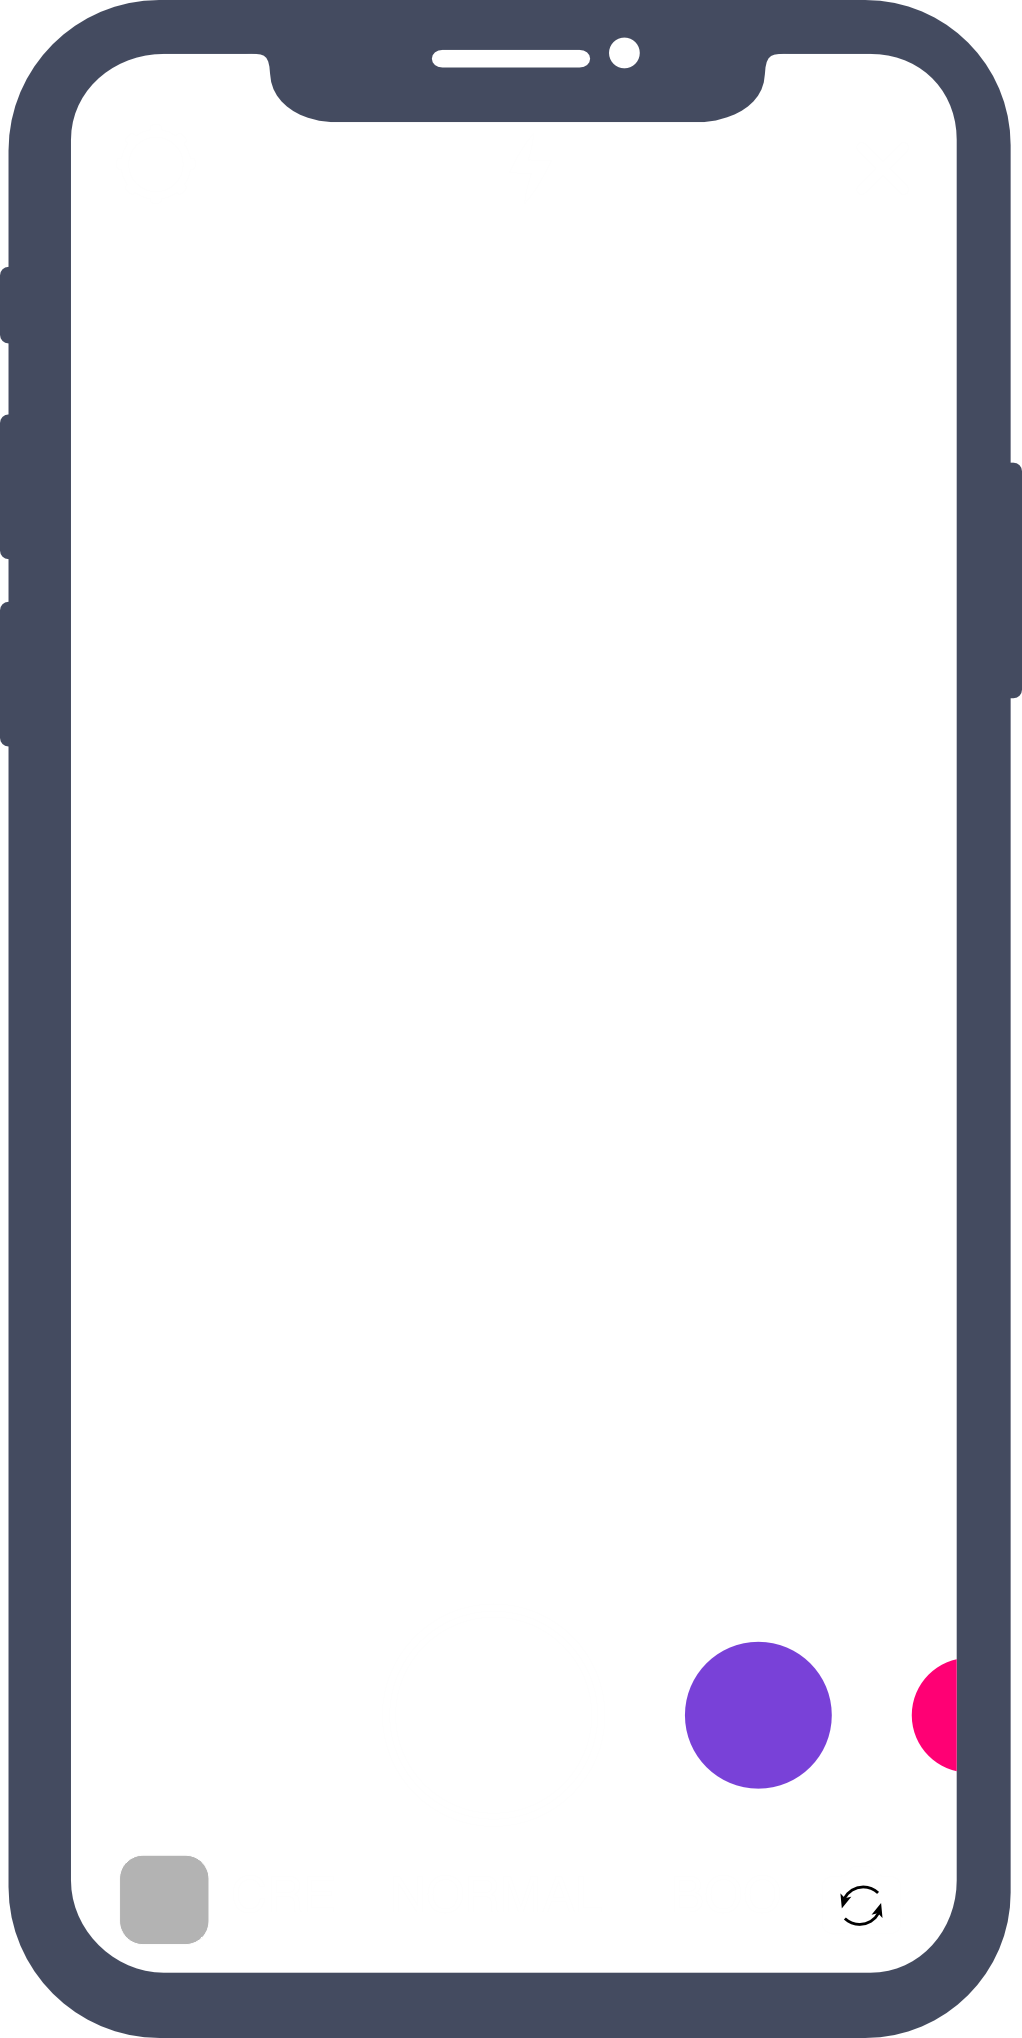
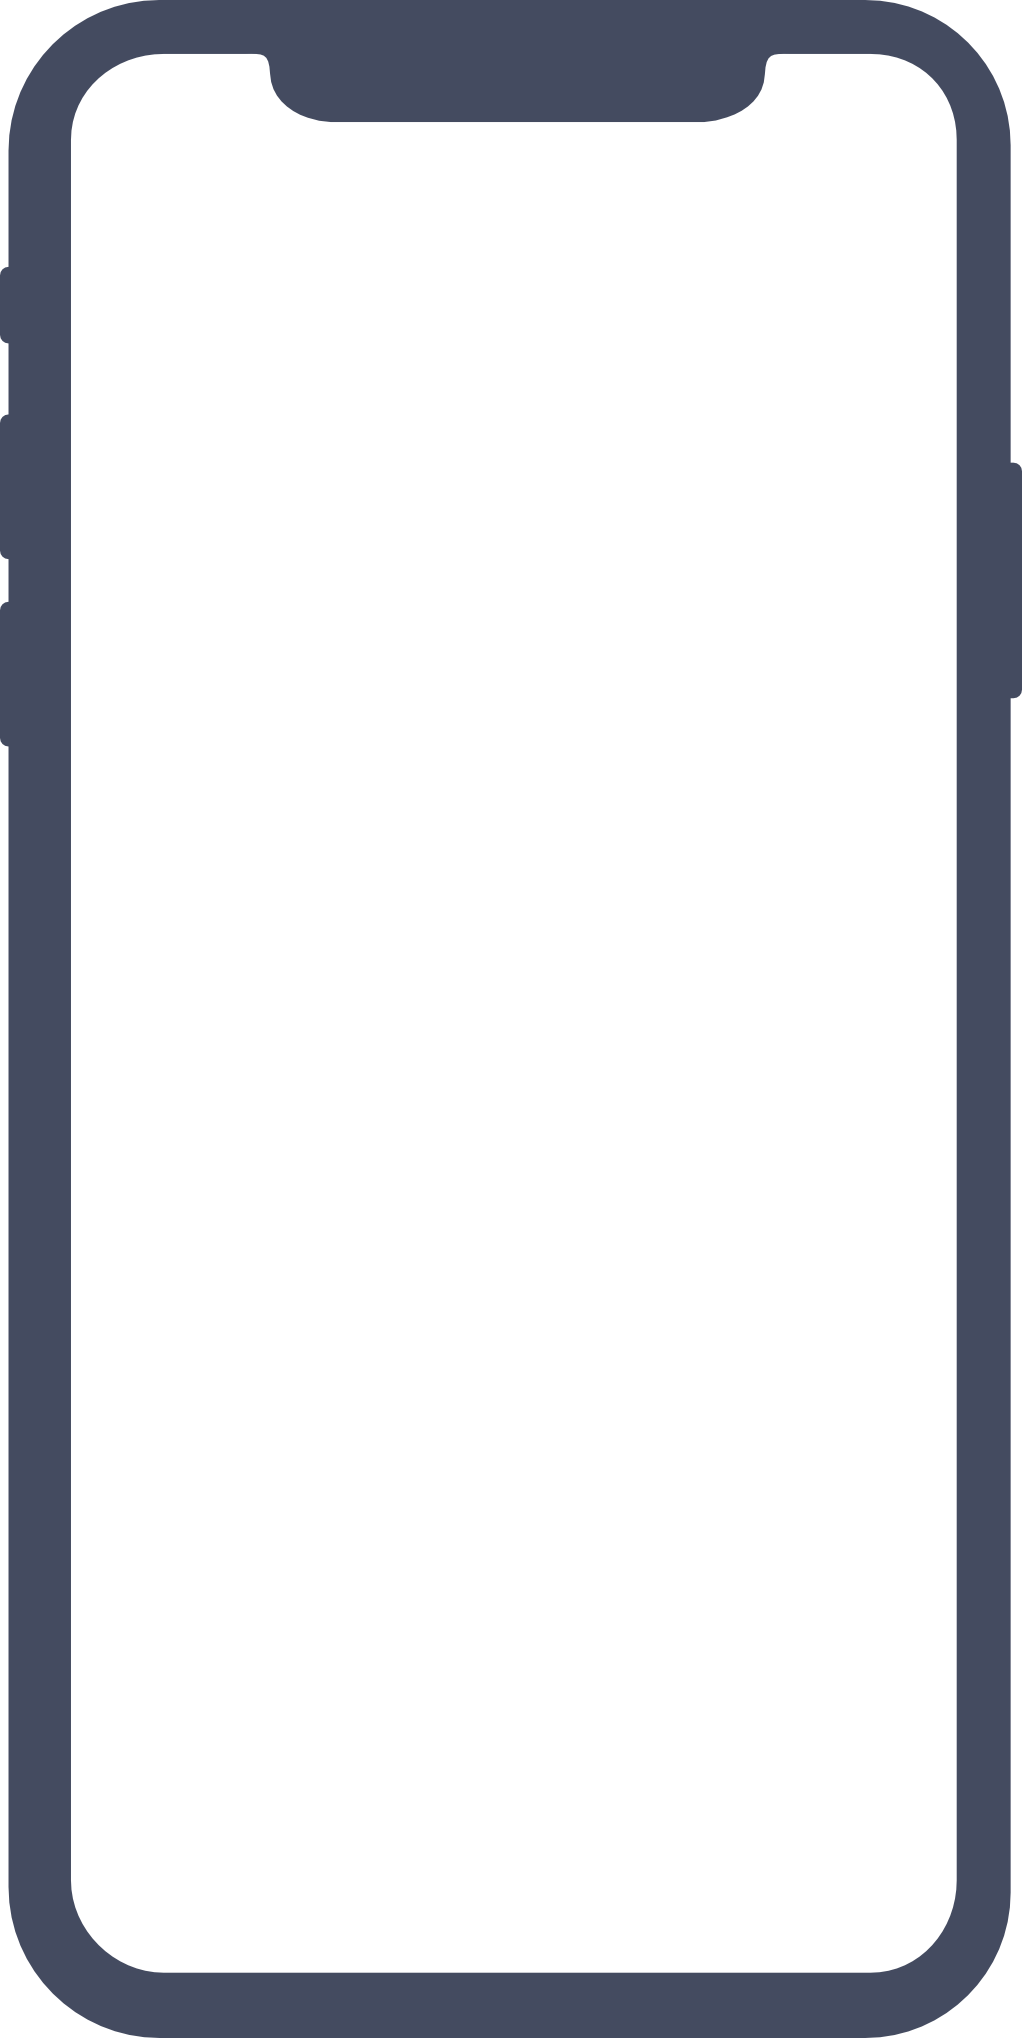
Fixed Skippy images

diff --git a/content/projects/skippy/index.md b/content/projects/skippy/index.md
@@ -37,6 +37,9 @@
   }, {
     "src": "assets/img12.png",
     "title": "Phone mock-up"
+  }, {
+    "src": "assets/img13.png",
+    "title": "Screen mock-up"
   }],
   "title": "Skippy"
 }
@@ -102,7 +105,7 @@ Skippy is an industry-leader in peanut butter, however it has not been performin
       x-data = "gallery">
       <div
         class = "swiper"
-        w-text = "dark-500"
+        w-text = "light-500"
         w-w = "full">
         {{< gallery/buttons >}}
         <div
@@ -135,13 +138,30 @@ Skippy is an industry-leader in peanut butter, however it has not been performin
       w-max-w = "sm"
       w-position = "absolute left-1/2 top-0"
       w-transform = "~ -translate-x-1/2"
-      w-w = "full"
-      w-z = "1">
+      w-w = "full">
       <img
         alt = "Phone mock-up"
         data-lazy = "/projects/skippy/assets/img12.png"
         height = "2038"
         src = "/projects/skippy/assets/img12-low.png"
+        width = "1022"
+        w-h = "full"
+        w-object = "cover"
+        w-transition = "duration-250 ease-in-out filter"
+        w-w = "full"/>
+    </div>
+    <div
+      w-max-w = "sm"
+      w-pointer = "none"
+      w-position = "absolute left-1/2 top-0"
+      w-transform = "~ -translate-x-1/2"
+      w-w = "full"
+      w-z = "1">
+      <img
+        alt = "Screen mock-up"
+        data-lazy = "/projects/skippy/assets/img13.png"
+        height = "2038"
+        src = "/projects/skippy/assets/img13-low.png"
         width = "1022"
         w-h = "full"
         w-object = "cover"
